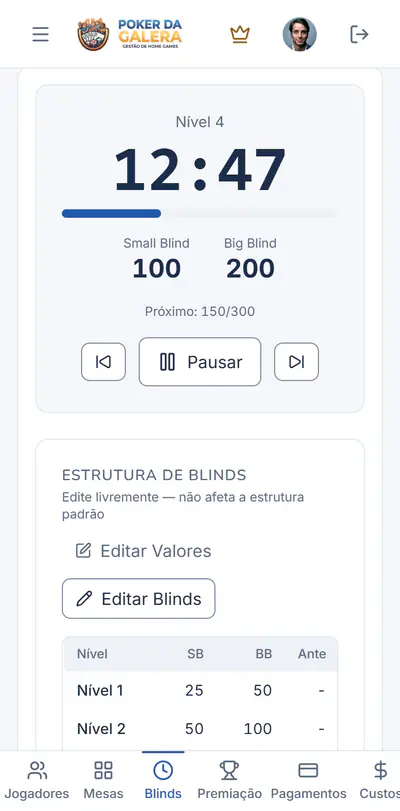
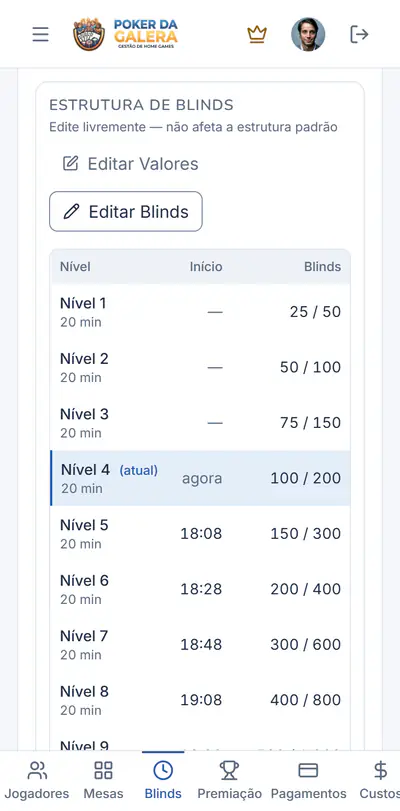
Manual: Histórico no topo do painel, coluna Início e sugestões do novo torneio
Textos do painel (botões, selo, Histórico e desfazer, arrastar os avisos),
da aba Blinds (coluna Início) e do novo torneio (estrutura e ranking já
escolhidos). Print novo painel-historico; refeitos pc-painel-torneio,
painel-jogadores, painel-blinds, torneio-novo e dealer-autorizar.

diff --git a/src/pages/manual/manual.content.ts b/src/pages/manual/manual.content.ts
@@ -321,11 +321,11 @@ export const MANUAL_MODULES = [
           {
             title: 'Crie o torneio',
             text: [
-              'Em Torneios (ou no Início), toque em Novo Torneio. Dê um nome, a data e escolha a estrutura: valores, limites de rebuy e add-on, custos e formato vêm preenchidos (e dá para mudar só neste torneio).',
-              'Escolha também o ranking da temporada, se houver, e toque em Criar torneio (no celular, o ✓ no topo).',
+              'Em Torneios (ou no Início), toque em Novo Torneio. Dê um nome e a data. A estrutura já vem escolhida — a do último torneio do clube (ou, sem ela, a estrutura mais recente) — com valores, limites de rebuy e add-on, custos e formato preenchidos. Dá para trocar a estrutura e mudar os valores só neste torneio.',
+              'O ranking mais recente do clube também já vem marcado, se houver; troque ou deixe em Nenhum e toque em Criar torneio (no celular, o ✓ no topo).',
             ],
             image: 'torneio-novo',
-            imageAlt: 'Formulário Novo Torneio com nome, data, PIX do dia e a estrutura Sexta 20 min escolhida',
+            imageAlt: 'Formulário Novo Torneio com nome, data, PIX do dia, a estrutura Sexta 20 min e o ranking Temporada 2026 já escolhidos',
           },
           {
             title: 'Quantos dealers?',
@@ -578,7 +578,7 @@ export const MANUAL_MODULES = [
   {
     slug: 'painel-do-home-game',
     title: 'Navegação e o painel do torneio',
-    summary: 'O Início, o menu, Configurações e o painel do torneio: jogadores, mesas, blinds, pagamentos, custos, financeiro, premiação, telão e ranking.',
+    summary: 'O Início, o menu, Configurações e o painel do torneio: jogadores, histórico, mesas, blinds, pagamentos, custos, financeiro, premiação, telão e ranking.',
     intro:
       'Tudo o que o terminal faz, e mais: inscrições, mesas, dinheiro, premiação e ranking. Funciona no celular e fica ainda melhor no computador.',
     icon: 'painel',
@@ -641,11 +641,12 @@ export const MANUAL_MODULES = [
           {
             title: 'Visão geral',
             text: [
-              'No topo: status, relógio, jogadores, rebuys, add-ons, premiação e total. Os botões mudam conforme o torneio anda: Editar, Iniciar Torneio, Pausar, Encerrar Rebuys e Finalizar (para encerrar antes da hora; quando sobra o campeão, ele se finaliza sozinho).',
+              'No topo: relógio, jogadores, rebuys, add-ons, premiação e total. Os botões mudam conforme o torneio anda: Editar, Iniciar Torneio, Pausar, Histórico e Cancelar torneio. Não há botão de finalizar: quando sobra o campeão, o torneio se finaliza sozinho.',
+              'Embaixo do nome aparece o selo do status quando ele importa: Rascunho, Finalizado ou Cancelado. Torneio com o selo Rebuys Finalizados tem Voltar para em andamento, que libera rebuy e add-on de novo.',
               'Ao lado ficam Telão (o relógio e os blinds no celular ou numa tela ao lado) e Dealer (o QR do terminal do dealer). Abaixo, as abas do torneio; no celular, elas ficam na barra de baixo, que rola de lado.',
             ],
             image: 'pc-painel-torneio',
-            imageAlt: 'Painel do torneio no computador: resumo no topo, botões, abas e os cards dos jogadores da Mesa 1',
+            imageAlt: 'Painel do torneio no computador: botões Editar, Pausar, Histórico e Cancelar torneio no topo, o resumo, Telão e Dealer, as abas e os cards dos jogadores da Mesa 1',
           },
           {
             title: 'Inscreva os jogadores',
@@ -668,9 +669,19 @@ export const MANUAL_MODULES = [
             imageAlt: 'Formulário Editar Torneio no celular de um torneio em andamento, com o aviso de que mudar valores recalcula o que cada jogador deve e de que a estrutura e o formato não mudam mais',
           },
           {
+            title: 'Histórico e desfazer',
+            text: [
+              'Toque em Histórico, no topo do painel, para ver tudo o que foi feito no torneio — inscrições, rebuys, add-ons, pagamentos, eliminações, timebank e mudanças nos valores —, com a hora e quem fez. Busque pelo nome do jogador e toque em Desfazer na linha para corrigir um engano.',
+              'Toque em Voltar para fechar. O histórico de um jogador só também está na ficha dele.',
+            ],
+            tip: 'Os avisos que aparecem na tela somem sozinhos. Para tirar um antes, arraste para o lado (no celular, com o dedo) ou toque no X do canto.',
+            image: 'painel-historico',
+            imageAlt: 'Histórico do painel no celular em tela cheia, com a busca, a hora de cada lançamento, quem fez e o botão Desfazer',
+          },
+          {
             title: 'Jogadores',
             text: [
-              'A lista é a mesma do terminal: cards por mesa com Rebuy, Add-on, Pagar e Eliminar, filtros (Jogando, Eliminados, Devendo) e o Histórico com desfazer.',
+              'A lista é a mesma do terminal: cards por mesa com Rebuy, Add-on, Pagar e Eliminar, a busca e os filtros (Jogando, Eliminados, Devendo).',
               'Toque em qualquer lugar do card do jogador, fora dos botões, para abrir a ficha dele.',
             ],
             image: 'painel-jogadores',
@@ -690,10 +701,11 @@ export const MANUAL_MODULES = [
             title: 'Blinds',
             text: [
               'O relógio do torneio, com anterior, pausar e próximo, e a estrutura com o nível atual em destaque.',
+              'A coluna Início mostra a que horas cada nível começa, contando de agora: o atual aparece como agora, os que já passaram ficam com traço e o intervalo entra na conta. Com o relógio pausado, os horários valem se ele voltar agora. Os horários se acertam sozinhos quando o nível muda.',
               'Editar Blinds muda só este torneio, sem mexer na estrutura padrão.',
             ],
             image: 'painel-blinds',
-            imageAlt: 'Aba Blinds com o relógio no nível 4 (100/200), o próximo nível 150/300, o botão Pausar e o começo da estrutura do torneio',
+            imageAlt: 'Aba Blinds no celular com a estrutura do torneio: o nível atual em destaque com agora na coluna Início e o horário de começo de cada nível seguinte',
           },
           {
             title: 'Pagamentos',

diff --git a/src/pages/manual/manualImages.ts b/src/pages/manual/manualImages.ts
@@ -69,6 +69,8 @@ import imgPainelCustos400 from '../../assets/manual/painel-custos-400.webp'
 import imgPainelCustos750 from '../../assets/manual/painel-custos-750.webp'
 import imgPainelFinanceiro400 from '../../assets/manual/painel-financeiro-400.webp'
 import imgPainelFinanceiro750 from '../../assets/manual/painel-financeiro-750.webp'
+import imgPainelHistorico400 from '../../assets/manual/painel-historico-400.webp'
+import imgPainelHistorico750 from '../../assets/manual/painel-historico-750.webp'
 import imgPainelJogadores400 from '../../assets/manual/painel-jogadores-400.webp'
 import imgPainelJogadores750 from '../../assets/manual/painel-jogadores-750.webp'
 import imgPainelMesas400 from '../../assets/manual/painel-mesas-400.webp'
@@ -400,6 +402,14 @@ export const MANUAL_IMAGES = {
     src: imgPainelFinanceiro400,
     full: imgPainelFinanceiro750,
     srcSet: `${imgPainelFinanceiro400} 400w, ${imgPainelFinanceiro750} 750w`,
+    width: 750,
+    height: 1520,
+    kind: 'phone',
+  },
+  'painel-historico': {
+    src: imgPainelHistorico400,
+    full: imgPainelHistorico750,
+    srcSet: `${imgPainelHistorico400} 400w, ${imgPainelHistorico750} 750w`,
     width: 750,
     height: 1520,
     kind: 'phone',
